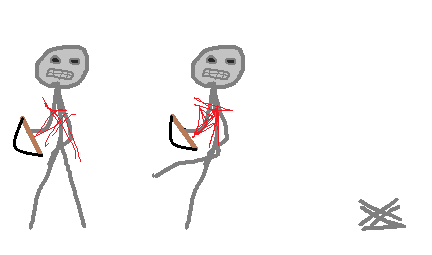
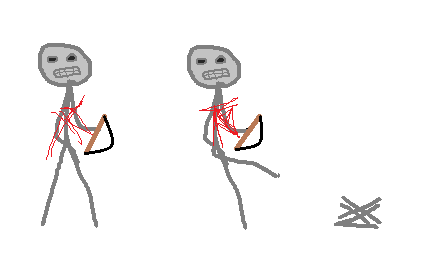
Fliping animations of Skeleton enemies

diff --git a/GameProject/Sprites/SkeletonArcher.cs b/GameProject/Sprites/SkeletonArcher.cs
@@ -30,14 +30,14 @@ namespace GameProject.Sprites
 			isAttacking = false;
 			if(player.Position.X <= Position.X)
 			{
-				gameState.SpawnProjectile(new SkeletonArrow(game, player, gameState.SkeletonArcherTextures["ArcherArrow"], Scale, true)
+				gameState.SpawnProjectile(new SkeletonArrow(game, player, gameState.SkeletonArcherTextures["ArcherArrow"], Scale, false)
 				{
 					Position = new Vector2(this.Position.X, this.Position.Y + this.Height / 2)
 				});
 			}
 			else
 			{
-				gameState.SpawnProjectile(new SkeletonArrow(game, player, gameState.SkeletonArcherTextures["ArcherArrow"], Scale, false)
+				gameState.SpawnProjectile(new SkeletonArrow(game, player, gameState.SkeletonArcherTextures["ArcherArrow"], Scale, true)
 				{
 					Position = new Vector2(this.Position.X, this.Position.Y + this.Height / 2)
 				});
@@ -82,9 +82,18 @@ namespace GameProject.Sprites
 				animationManager.Play(animations["Die"]);
 			else if (isAttacking)
 				animationManager.Play(animations["Attack"]);
-			//If enemy is moving
-			else if (Velocity != Vector2.Zero)
+			//Moving right
+			else if (Velocity.X > 0)
+			{
+				FlipHorizontally = false;
 				animationManager.Play(animations["Run"]);
+			}
+			//Moving left
+			else if (Velocity.X < 0)
+			{
+				FlipHorizontally = true;
+				animationManager.Play(animations["Run"]);
+			}
 			else
 				animationManager.Play(animations["Idle"]);
 		}

diff --git a/GameProject/Sprites/SkeletonWarrior.cs b/GameProject/Sprites/SkeletonWarrior.cs
@@ -68,9 +68,18 @@ namespace GameProject.Sprites
 				animationManager.Play(animations["Die"]);
 			else if (isAttacking)
 				animationManager.Play(animations["Attack"]);
-			//If enemy is moving
-			else if (Velocity != Vector2.Zero)
+			//Moving right
+			else if (Velocity.X > 0)
+			{
+				FlipHorizontally = false;
 				animationManager.Play(animations["Run"]);
+			}
+			//Moving left
+			else if (Velocity.X < 0)
+			{
+				FlipHorizontally = true;
+				animationManager.Play(animations["Run"]);
+			}
 			else
 				animationManager.Play(animations["Idle"]);
 		}

diff --git a/GameProject/Sprites/Enemy.cs b/GameProject/Sprites/Enemy.cs
@@ -178,6 +178,7 @@ namespace GameProject.Sprites
 
 		public override void Update(GameTime gameTime)
 		{
+			base.Update(gameTime);
 			AttackTimer?.Update(gameTime);
 			IsPlayerClose(player);
 			if (Health <= 0)
